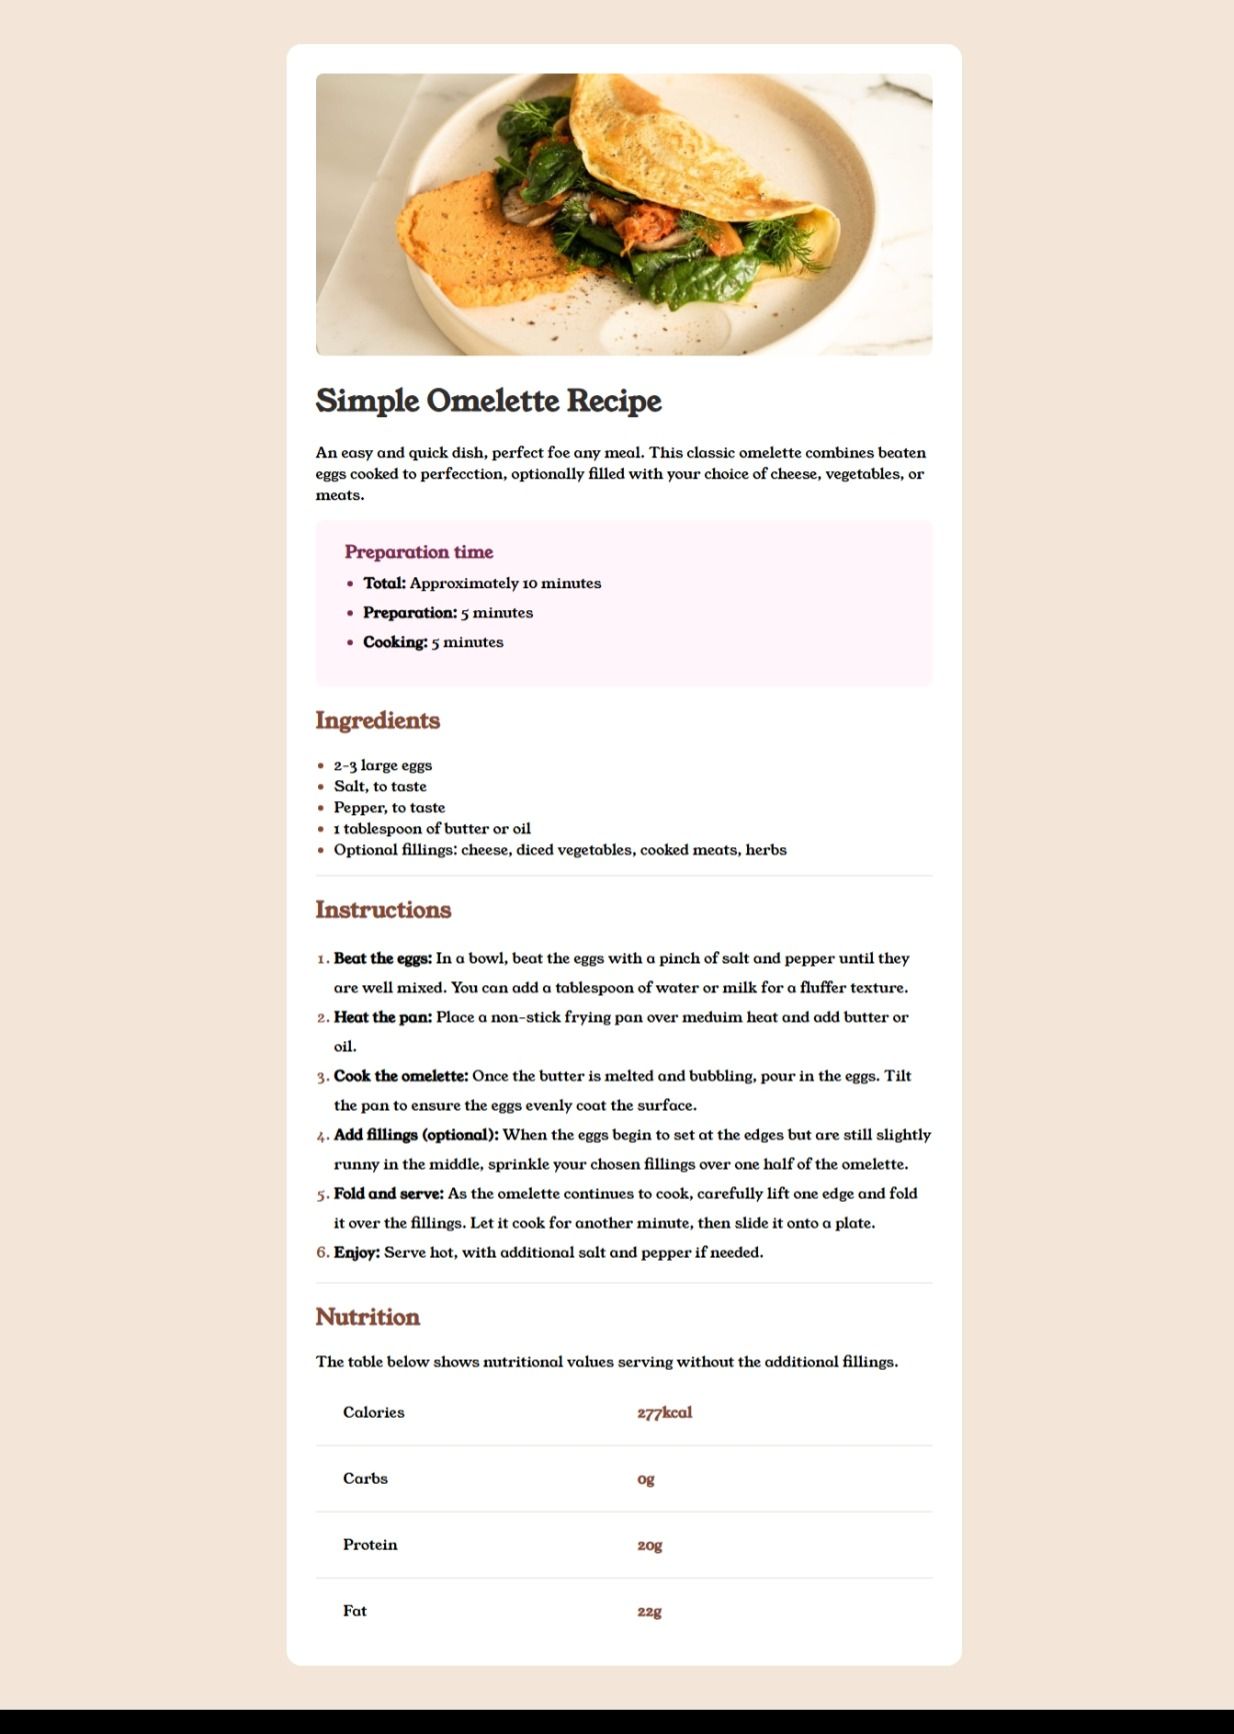
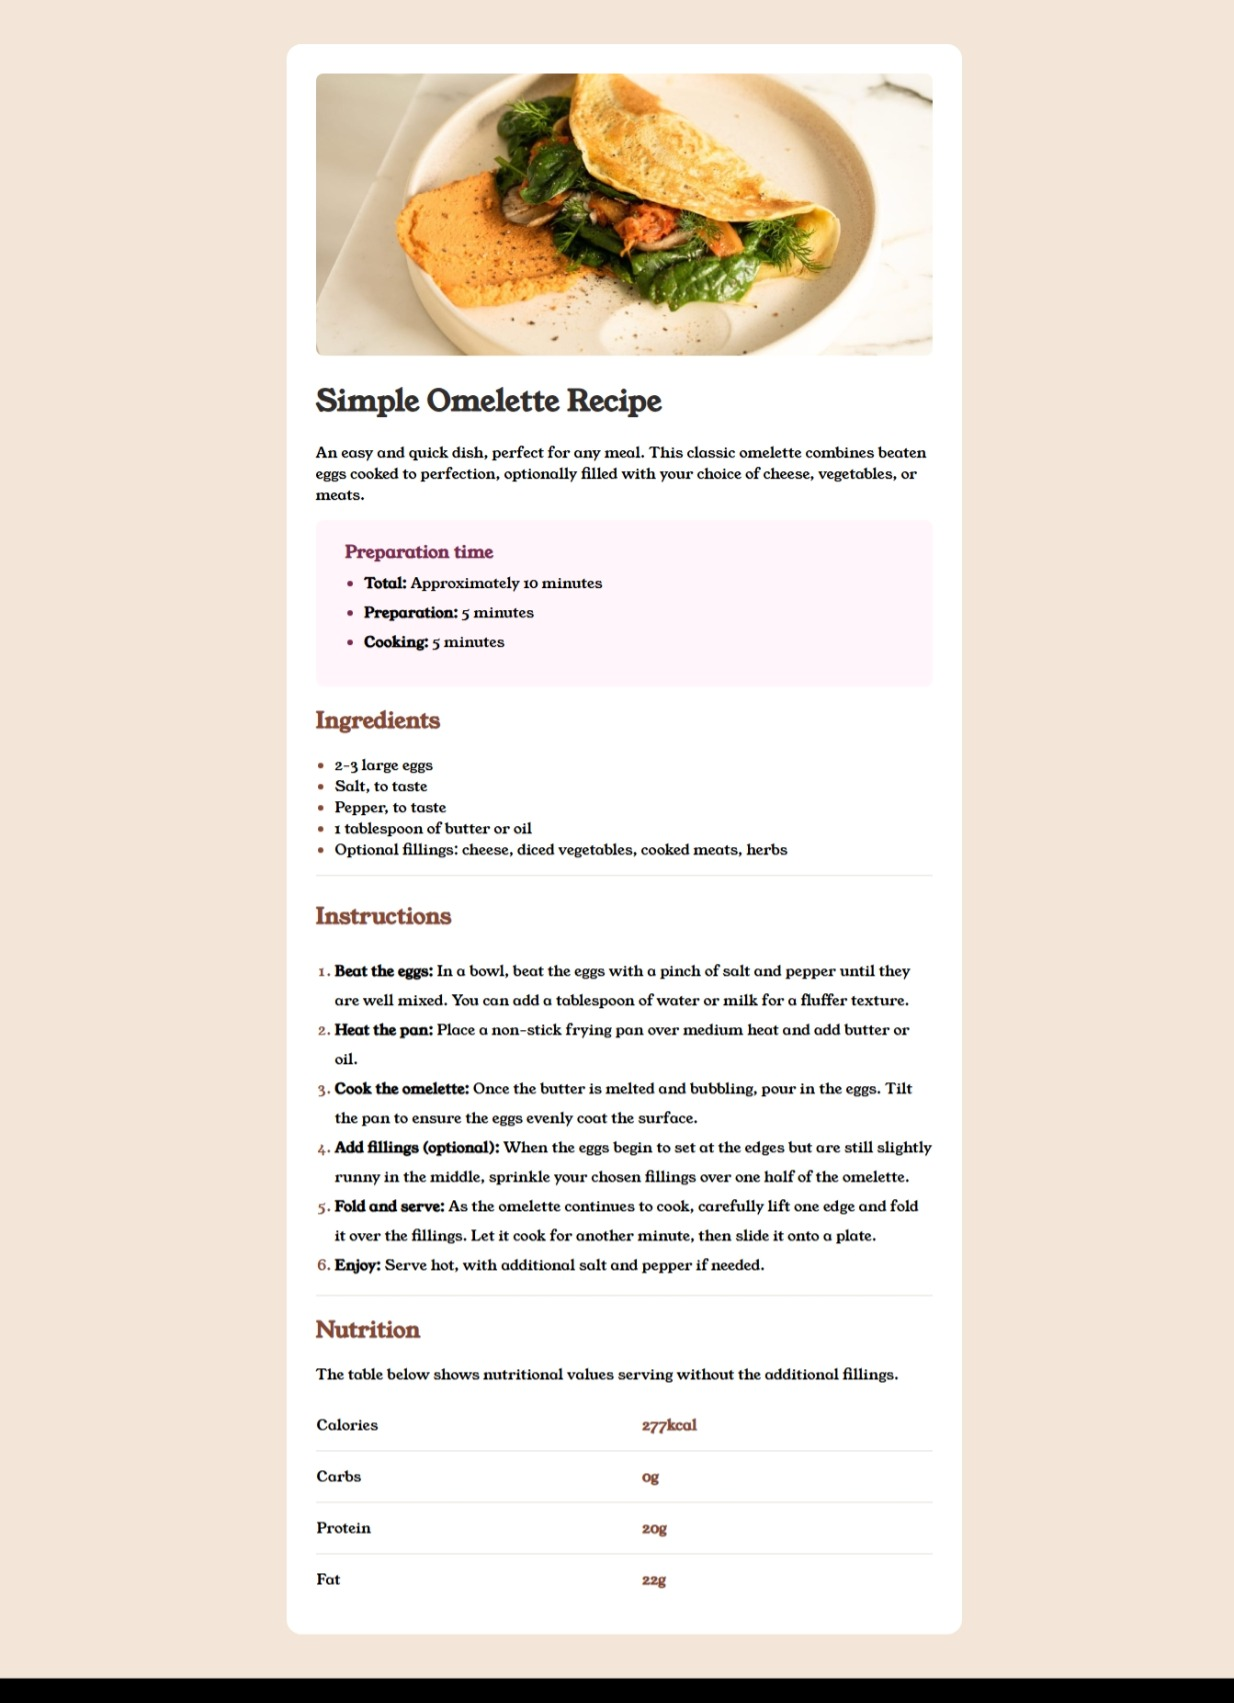
Updated - table & styles

Changed region(s): [[0.2464, 0.0311, 0.7699, 0.9336]]

diff --git a/index.html b/index.html
@@ -16,7 +16,7 @@
             Simple Omelette Recipe
         </h1>
         <p>
-            An easy and quick dish, perfect foe any meal. This classic omelette combines beaten eggs cooked to perfecction, optionally filled with your choice of cheese, vegetables, or meats.
+            An easy and quick dish, perfect for any meal. This classic omelette combines beaten eggs cooked to perfection, optionally filled with your choice of cheese, vegetables, or meats.
         </p>
         <div class="preparation">
         <h3>
@@ -38,38 +38,28 @@
             <li>Optional fillings: cheese, diced vegetables, cooked meats, herbs</li>
         </ul>
         <hr>
-    </div>  
+    </div>
+        <div class="instructions">
         <h2>Instructions</h2>
-        <ol class="instructions">
+        <ol>
             <li><b>Beat the eggs:</b> In a bowl, beat the eggs with a pinch of salt and pepper until they are well mixed. You can add a tablespoon of water or milk for a fluffer texture.</li>
-            <li><b>Heat the pan:</b> Place a non-stick frying pan over meduim heat and add butter or oil.</li>
+            <li><b>Heat the pan:</b> Place a non-stick frying pan over medium heat and add butter or oil.</li>
             <li><b>Cook the omelette:</b> Once the butter is melted and bubbling, pour in the eggs. Tilt the pan to ensure the eggs evenly coat the surface.</li>
             <li><b>Add fillings (optional):</b> When the eggs begin to set at the edges but are still slightly runny in the middle, sprinkle your chosen fillings over one half of the omelette.</li>
             <li><b>Fold and serve:</b> As the omelette continues to cook, carefully lift one edge and fold it over the fillings. Let it cook for another minute, then slide it onto a plate.</li>
             <li><b>Enjoy:</b> Serve hot, with additional salt and pepper if needed.</li>
         </ol>
+        </div>
         <hr>
         <h2>Nutrition</h2>
         <p>The table below shows nutritional values serving without the additional fillings.</p>
-        <div class="table">
-            <p>Calories</p>
-            <p><strong>277kcal</strong></p>
-        </div>
-        <hr>
-        <div class="table">
-            <p>Carbs</p>
-            <p><strong>0g</strong></p>
-        </div>
-        <hr>
-        <div class="table">
-            <p>Protein</p>
-            <p><strong>20g</strong></p>
-        </div>
-        <hr>
-        <div class="table">
-            <p>Fat</p>
-            <p><strong>22g</strong></p>
-        </div>
+
+        <table>
+            <tr><td>Calories</td><th>277kcal</th></tr>
+            <tr><td>Carbs</td><th>0g</th></tr>
+            <tr><td>Protein</td><th>20g</th></tr>
+            <tr class="no-line"><td>Fat</td><th>22g</th></tr>
+        </table>
     </div>
 </body>
 </html>

diff --git a/styles.css b/styles.css
@@ -15,7 +15,7 @@
 }
 
 .container {
-    border-radius: 16px;
+    border-radius: 1rem;
     width: 50%;
     margin: auto;
     margin-top: 3rem;
@@ -26,7 +26,12 @@
 
 img {
     width: 100%;
-    border-radius: 8px;
+    border-radius: .5rem;
+}
+
+img:hover {
+    scale: 1.05;
+    transition-duration: 1s;
 }
 
 h1 {
@@ -48,7 +53,7 @@ h3 {
 .preparation {
     background-color: var(--rose-50);
     padding: 1rem 1rem 1rem 2rem;
-    border-radius: 8px;
+    border-radius: .5rem;
     line-height: 2;
 }
 
@@ -57,11 +62,12 @@ h3 {
 
 }
 
-.preparation ul {
-    background-color: var(--rose-50);
+.preparation:hover{
+    scale: 1.05;
+    transition-duration: 1s;
 }
 
-.preparation b{
+.preparation >*{
     background-color: var(--rose-50);
 }
 
@@ -71,7 +77,7 @@ h3 {
 
 
 ul{
-    padding-left: 20px;
+    padding-inline-start: 1.3rem;
     margin-top: 0;
 }
 
@@ -90,7 +96,7 @@ h2 {
     color: var(--brown-800);
 }
 
-.instructions {
+.instructions, ol {
     background-color: var(--white);
     line-height: 2;
 }
@@ -100,33 +106,41 @@ h2 {
 }
 
 ol{
-    padding-left: 20px;
+    padding-inline-start: 1.3rem;
     margin-top: 0;
 }
 
-ol >* {
+table{
+    width: 100%;
     background-color: var(--white);
-
+    border-collapse: collapse;
 }
 
-.table {
-    background-color: var(--white);
-    display: grid;
-    grid-template-columns: 1fr 1fr;
-    margin-left: 30px;
+table:hover {
+    scale: 1.05;
+    transition-duration: 1s;
 }
 
-b {
-    background-color: var(--white);
+tr >*{
+        background-color: var(--white);
+        border-bottom: 1px solid var(--stone-150);
+        padding-top: 1rem;
+        padding-bottom: 1rem;
 }
 
-strong {
-    background-color: var(--white);
+th {
     color: var(--brown-800);
+    text-align: left;
 }
-
+b{
+    background-color: inherit;
+}
 hr {
     border: 1px solid var(--stone-150);
+    border-bottom: none;
+}
+
+.no-line >* {
     border-bottom: none;
 }
 
